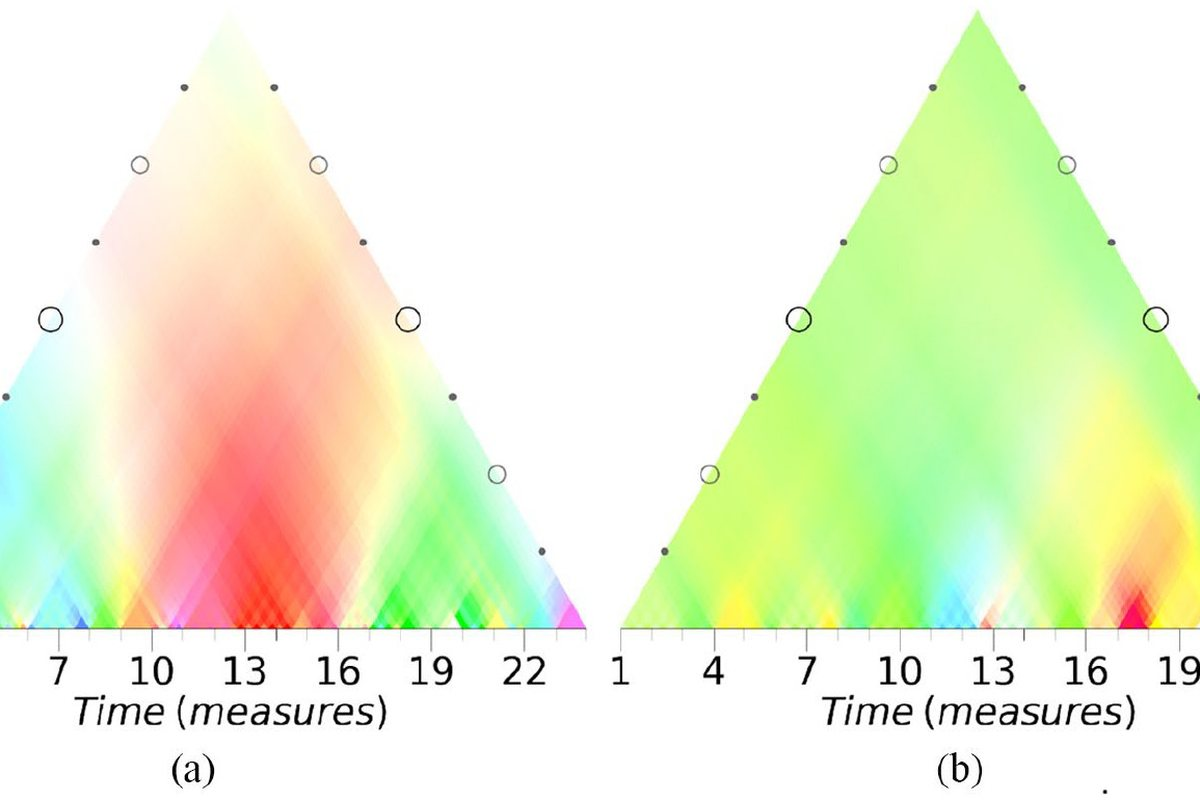
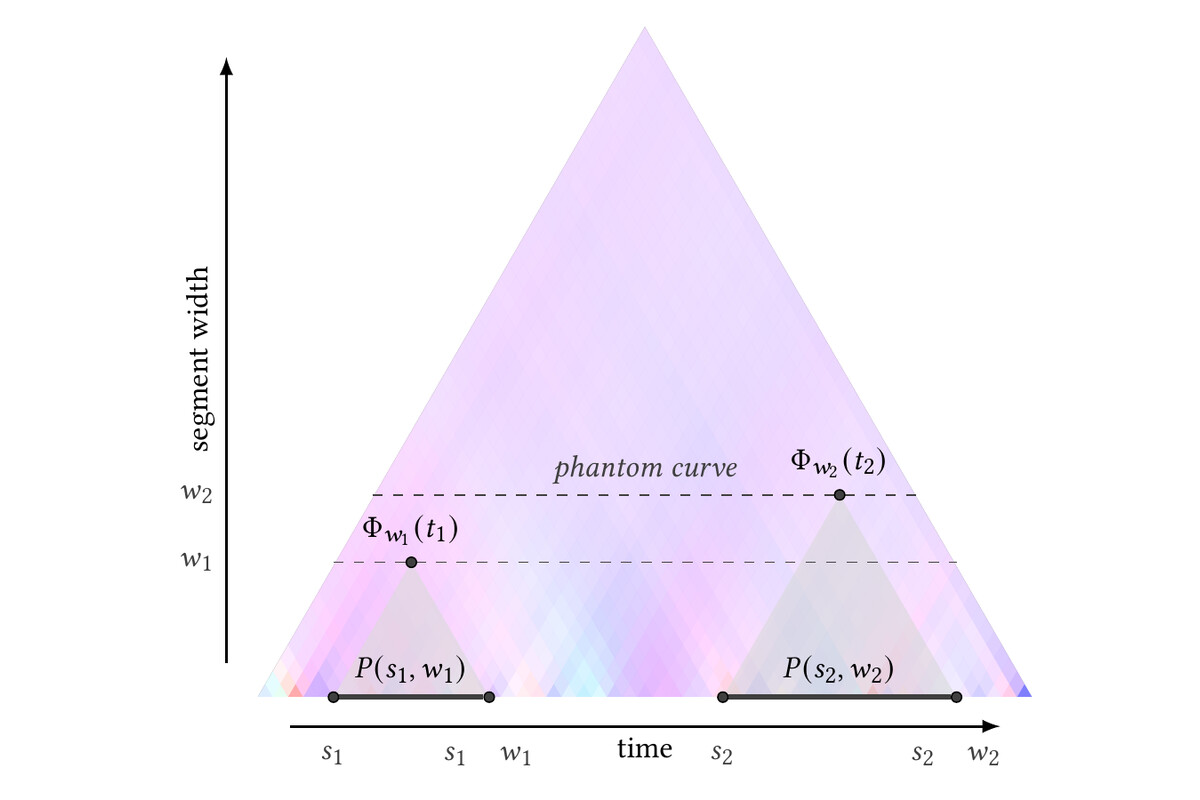
Research cards: Figure 1 from Phantom Curves as Music Theory image, page titles match cards, remove Explore link, area-coloured card titles; opaque experience bars

diff --git a/assets/scss/custom.scss b/assets/scss/custom.scss
@@ -279,7 +279,7 @@ button:focus-visible,
 // -----------------------------------------------------------------------------
 // Rendered by `layouts/shortcodes/research_areas.html` from
 // `data/research_areas.yaml`: muted tinted icon, accent top rule, content
-// counts, and an explicit "Explore" affordance.
+// counts, and the whole card as the link.
 
 .research-cards {
   display: grid;
@@ -394,7 +394,7 @@ button:focus-visible,
 
 .research-area-card__title {
   margin: 0;
-  color: var(--fc-heading);
+  color: var(--area-color);
   font-size: 1.02rem;
   font-weight: 600;
   line-height: 1.3;
@@ -414,24 +414,6 @@ button:focus-visible,
   color: var(--fc-text-muted);
   font-size: 0.8rem;
   line-height: 1.4;
-}
-
-.research-area-card__link {
-  display: inline-flex;
-  align-items: center;
-  gap: 0.35rem;
-  color: var(--area-color);
-  font-size: 0.88rem;
-  font-weight: 600;
-}
-
-.research-area-card__link span {
-  transition: transform 0.2s ease;
-}
-
-.research-area-card:hover .research-area-card__link span,
-.research-area-card:focus-visible .research-area-card__link span {
-  transform: translateX(3px);
 }
 
 .area-computational-musicology {
@@ -1686,37 +1668,39 @@ body.teaching-page .article-style details a {
   background: var(--fc-border);
 }
 
+// Bars are opaque tints of their role colour, so the track line behind them
+// never shows through. Current and hovered bars use the full colour.
 .exp-bar {
+  --bar-color: var(--fc-accent);
   position: absolute;
   top: 50%;
   height: 1.05rem;
   min-width: 6px;
-  background: var(--fc-accent);
+  background: color-mix(in srgb, var(--bar-color) 55%, var(--fc-surface));
   border-radius: 999px;
-  opacity: 0.5;
   transform: translateY(-50%);
-  transition: opacity 0.2s ease;
+  transition: background-color 0.2s ease;
 }
 
-.exp-bar:hover {
-  opacity: 1;
+.exp-bar:hover,
+.exp-bar--current {
+  background: var(--bar-color);
 }
 
 .exp-bar--current {
-  opacity: 1;
   box-shadow: 0 0 0 3px var(--fc-accent-soft);
 }
 
 .exp-bar--professor {
-  background: var(--fc-role-professor);
+  --bar-color: var(--fc-role-professor);
 }
 
 .exp-bar--postdoc {
-  background: var(--fc-role-postdoc);
+  --bar-color: var(--fc-role-postdoc);
 }
 
 .exp-bar--doctoral {
-  background: var(--fc-role-doctoral);
+  --bar-color: var(--fc-role-doctoral);
 }
 
 .exp-marker {
@@ -2277,4 +2261,81 @@ body.research-page .project-tile__link {
     transition-duration: 0.001ms !important;
     scroll-behavior: auto !important;
   }
+}
+
+// -----------------------------------------------------------------------------
+// 19. Analytics consent banner and footer settings link
+// -----------------------------------------------------------------------------
+.consent-banner {
+  position: fixed;
+  left: 0;
+  right: 0;
+  bottom: 0;
+  z-index: 1050;
+  display: flex;
+  flex-wrap: wrap;
+  align-items: center;
+  justify-content: space-between;
+  gap: var(--fc-space-3) var(--fc-space-5);
+  padding: var(--fc-space-4) var(--fc-space-5);
+  background: var(--fc-surface);
+  color: var(--fc-text);
+  border-top: 1px solid var(--fc-border);
+  box-shadow: var(--fc-shadow-md);
+  font-size: 0.9rem;
+}
+
+.consent-banner[hidden] {
+  display: none;
+}
+
+.consent-banner__text {
+  margin: 0 0 var(--fc-space-1);
+  max-width: 62ch;
+}
+
+.consent-banner__text a {
+  color: var(--fc-accent);
+  text-decoration: underline;
+}
+
+.consent-banner__actions {
+  display: flex;
+  flex-wrap: wrap;
+  gap: var(--fc-space-2);
+}
+
+.consent-banner__button {
+  padding: var(--fc-space-2) var(--fc-space-4);
+  border: 1px solid var(--fc-accent);
+  border-radius: var(--fc-radius-sm);
+  background: var(--fc-surface);
+  color: var(--fc-accent);
+  font: inherit;
+  font-weight: 600;
+  cursor: pointer;
+}
+
+.consent-banner__button:hover {
+  background: var(--fc-accent-soft);
+}
+
+.consent-banner__button:focus-visible,
+.footer-cookie-settings:focus-visible {
+  outline: 2px solid var(--fc-accent);
+  outline-offset: 2px;
+}
+
+.footer-cookie-settings {
+  padding: 0;
+  border: 0;
+  background: none;
+  color: var(--fc-text-muted);
+  font: inherit;
+  text-decoration: underline;
+  cursor: pointer;
+}
+
+.footer-cookie-settings:hover {
+  color: var(--fc-accent);
 }

diff --git a/layouts/shortcodes/research_areas.html b/layouts/shortcodes/research_areas.html
@@ -29,7 +29,6 @@
         {{ with $bits }}
           <div class="research-area-card__meta">{{ delimit . " · " }}</div>
         {{ end }}
-        <span class="research-area-card__link">Explore <span aria-hidden="true">&rarr;</span></span>
       </div>
     </a>
   {{ end }}

diff --git a/content/research/cultural-evolution/_index.md b/content/research/cultural-evolution/_index.md
@@ -1,6 +1,6 @@
 ---
 # Research Area Page
-title: "Cultural Evolution"
+title: "Cultural Evolution & Music"
 subtitle: "Tracing the transmission and transformation of musical traditions"
 
 # Description at the top

diff --git a/content/research/digital-humanities/_index.md b/content/research/digital-humanities/_index.md
@@ -1,6 +1,6 @@
 ---
 # Research Area Page
-title: "Digital Humanities"
+title: "Music Encoding & Digital Humanities"
 subtitle: "Applying digital methods to humanities research"
 
 # Description at the top

diff --git a/content/research/music-theory/_index.md b/content/research/music-theory/_index.md
@@ -1,6 +1,6 @@
 ---
 # Research Area Page
-title: "Music Theory"
+title: "Music Theory & Analysis"
 subtitle: "Understanding the structures and systems of music"
 
 # Description at the top
